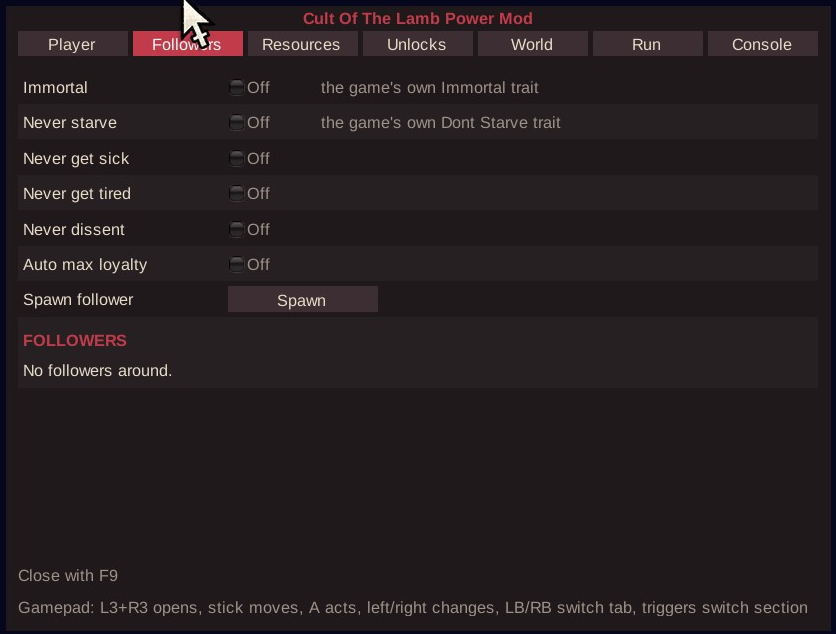
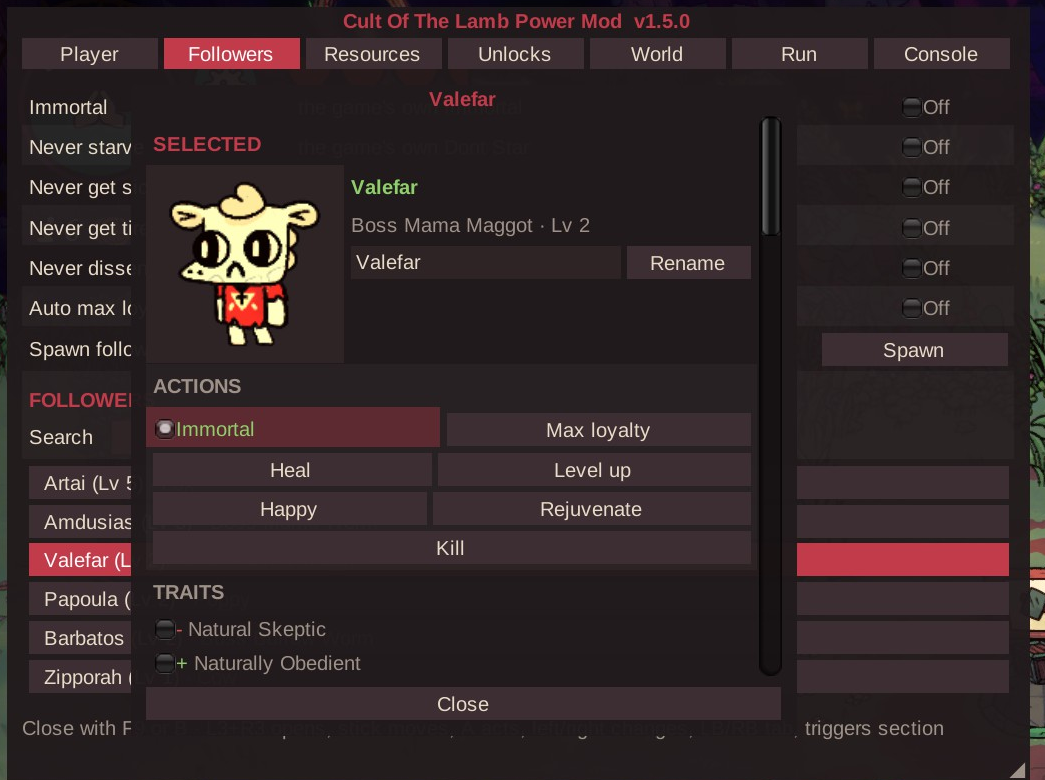
CultOfTheLambPowerMod 1.5.0

diff --git a/CultOfTheLamb/CultOfTheLambPowerMod/README.md b/CultOfTheLamb/CultOfTheLambPowerMod/README.md
@@ -12,10 +12,10 @@ In-game cheat menu for Cult of the Lamb. Press F9 (or L3+R3 on a gamepad), toggl
 - God mode, one-hit kill, damage multiplier, no clip, game speed, hide HUD
 - Menu scale slider - readable on 1440p, ultrawide and 4K (default picked from your screen)
 - Every item in the game with +/-, remove and infinite - DLC items included (Woolhaven section, everything else under Other)
-- Follower cheats: traits, rename, spawn, loyalty, heal, rejuvenate, cure dissent, free prisoners
+- Follower cards with live portrait: traits, rename, spawn, loyalty, heal, rejuvenate, cure dissent, free prisoners
 - World: difficulty sliders (enemy health, luck, hunger, illness and more), no death penalty, pause/skip the day cycle, weather control
-- Run: every tarot card as a toggle (give all / remove all), relic always charged, instant fishing, lucky dice
-- 700+ unlocks by category (buildings, upgrades, rituals, tarot, relics, weapons, recipes, fleeces) with search, unlock all and re-lock
+- Run: every tarot card as a toggle, card set saved and auto-given every run, relic always charged, instant fishing, lucky dice
+- 1300+ unlocks in 19 categories (buildings, upgrades, rituals, doctrines, sermons, structures, tarot, relics, weapons, curses, crown, recipes, fleeces, clothing, follower forms, flockade, lore) with counters, search, unlock all and re-lock - mobile-exclusive outfits and decorations included
 - Full dev console: 90+ of the game's own cheats as buttons, by category
 - English and Brazilian Portuguese, following the game language
 
